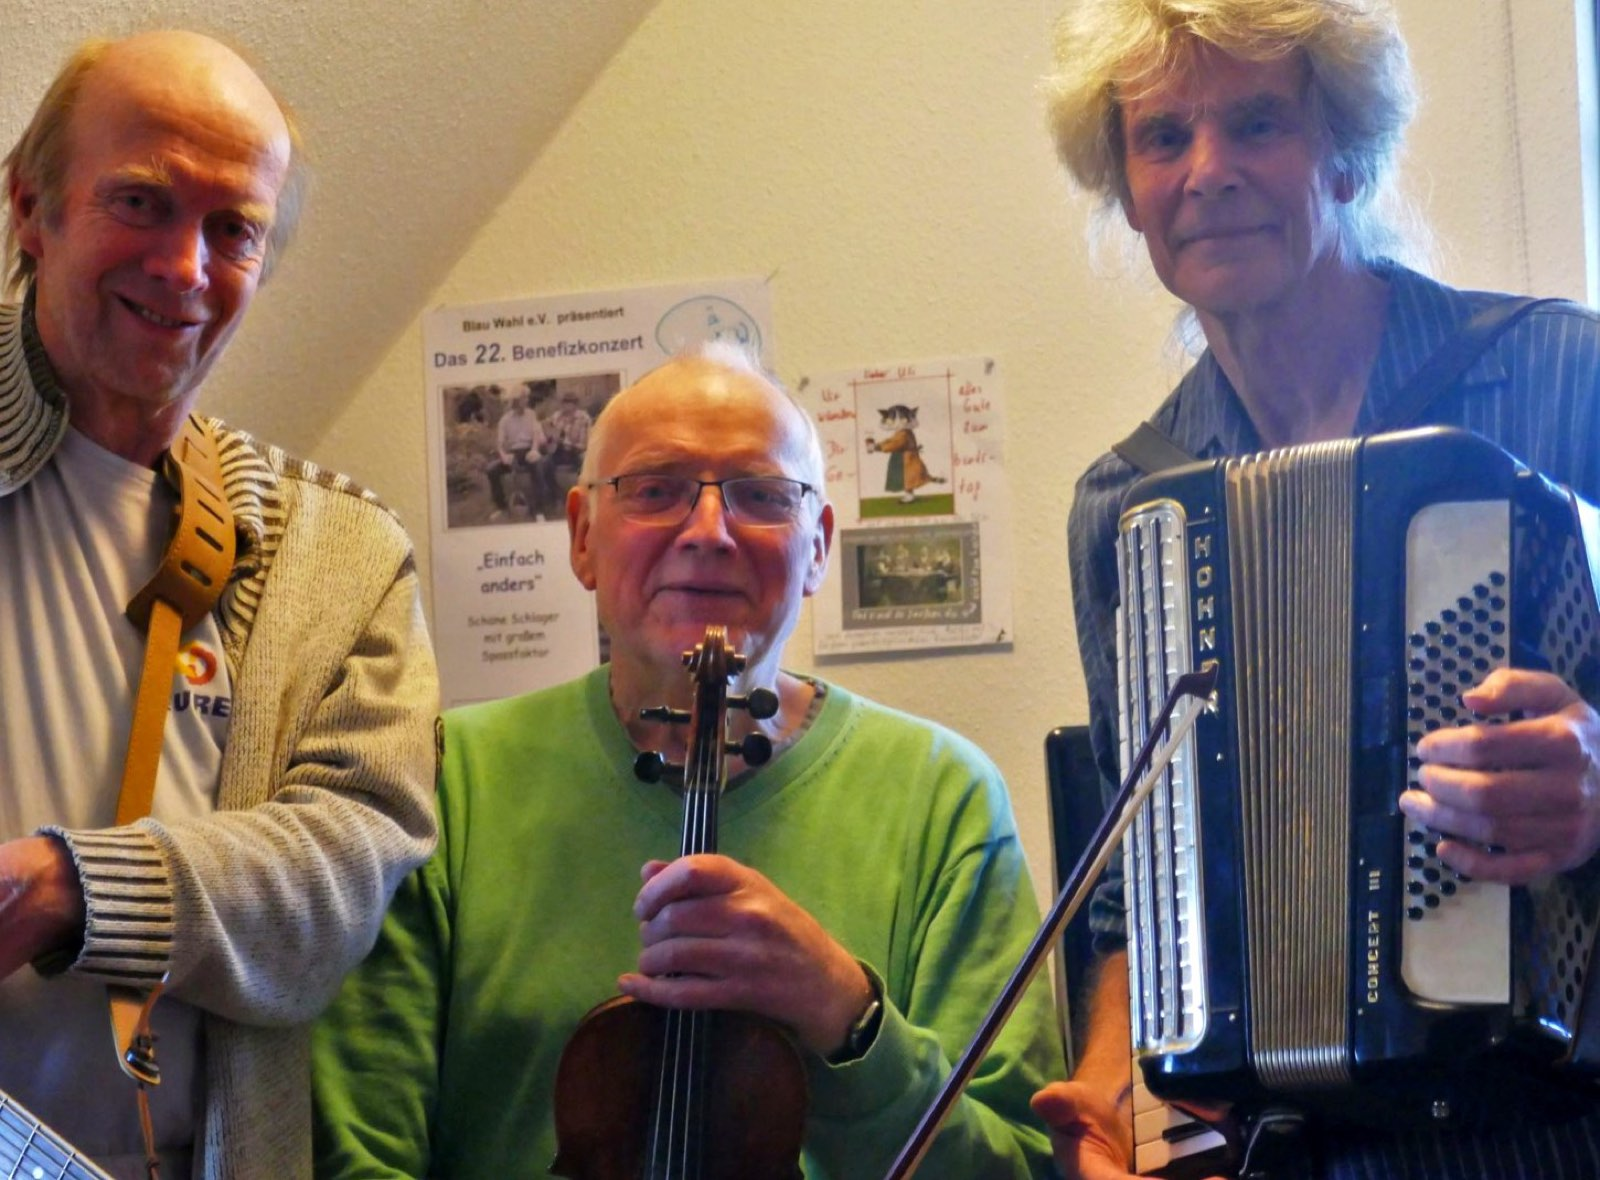
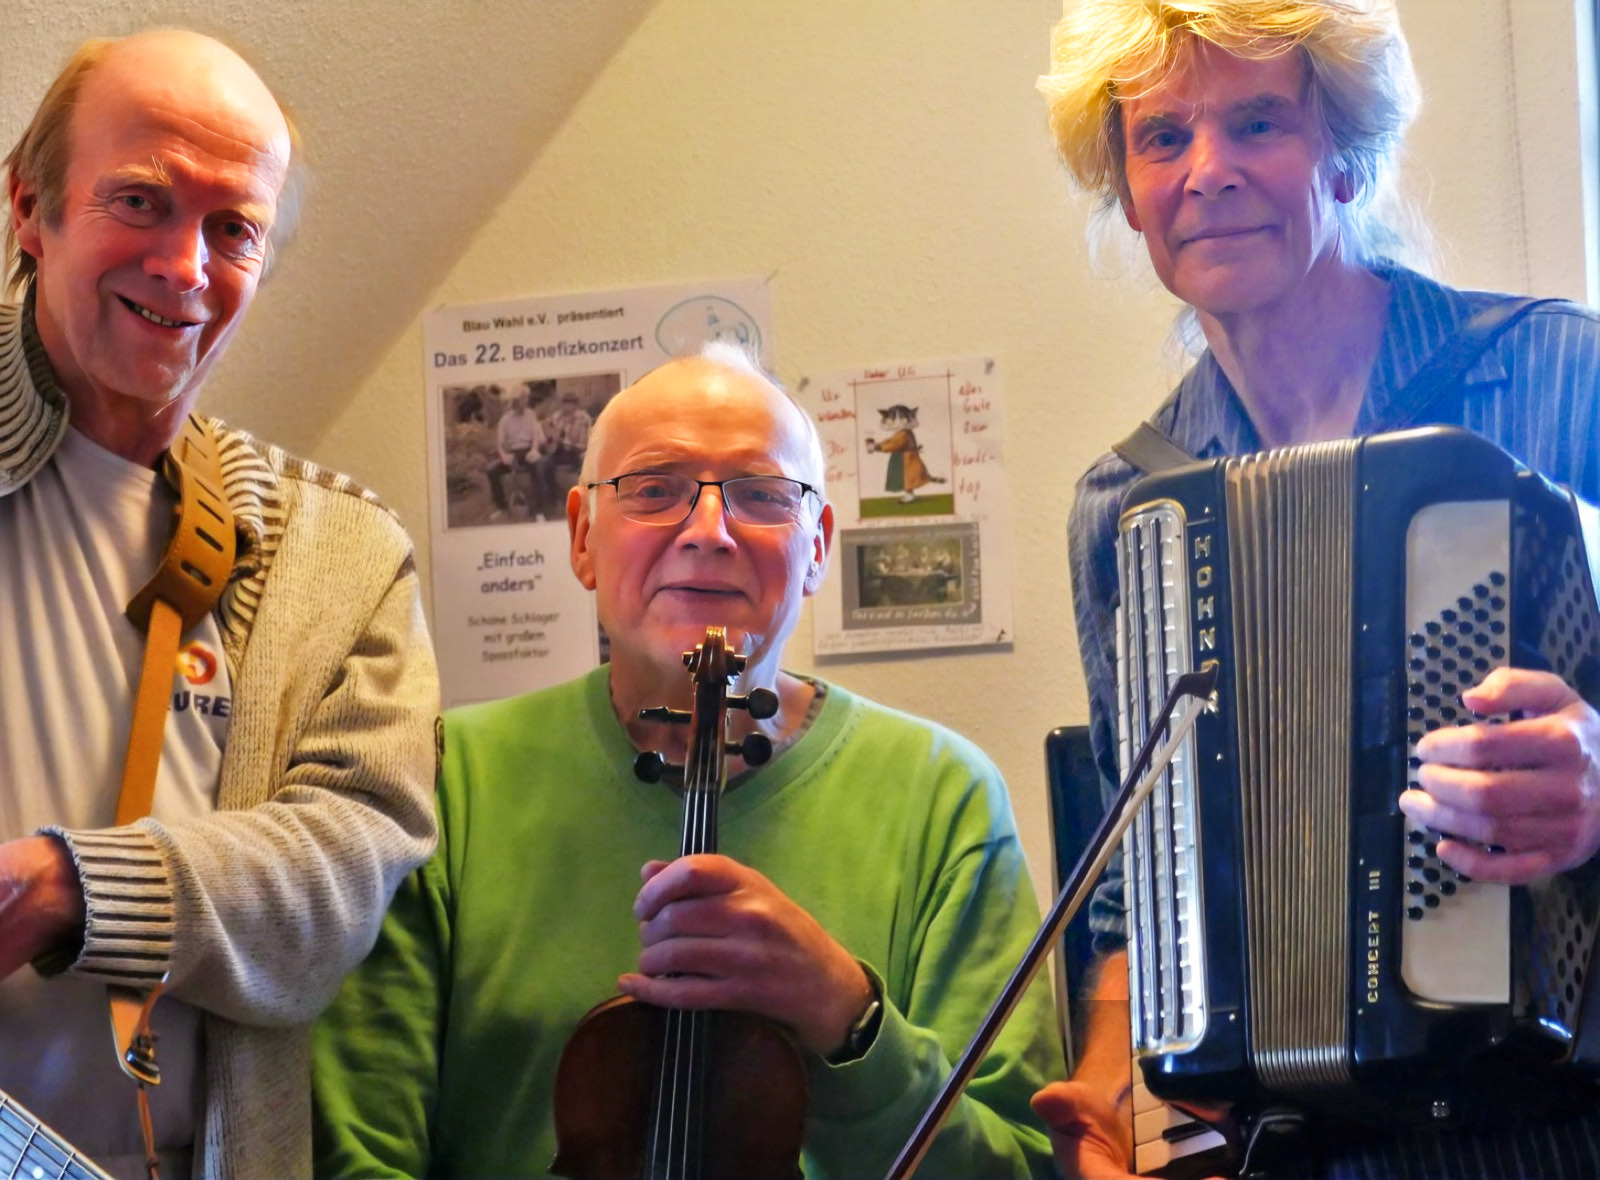
Ulis Endfassung des Oberschliesser-Fotos
Gleicher Schnitt, aber sauber abgestimmter Weissabgleich: die Wand ist
neutral statt gelbstichig, das Plakat im Hintergrund bleibt lesbar.
Fuer das Web auf 366 KB gerechnet, Vorschaubild neu erzeugt.
Original als D-Uli-Endfassung-original.jpg bei den Varianten.

Claude-Session: https://claude.ai/code/session_014QFZ63DHSQGqZuoW9yPC8P

diff --git a/fotos.html b/fotos.html
@@ -46,7 +46,7 @@
       <figure class="tack"><img src="bilder/manni-kehr-klein.jpg?v=1787141324" data-gross="bilder/manni-kehr.jpg?v=1787141324" alt="Manni Kehr mit Mandola im Grünen" loading="lazy"><figcaption>Manni Kehr</figcaption></figure>
       <figure class="tack"><img src="bilder/manni-solo-klein.jpg?v=1787760422" data-gross="bilder/manni-solo.jpg?v=1787760422" alt="Manni Kehr singt mit der Mandola am Mikrofon auf der Bühne" loading="lazy"><figcaption>Manni Kehr am Mikrofon</figcaption></figure>
       <figure class="tack"><img src="bilder/manni-mittelalter-klein.jpg?v=1787760422" data-gross="bilder/manni-mittelalter.jpg?v=1787760422" alt="Manni Kehr im mittelalterlichen Gewand an der Drehleier, neben ihm eine Ritterrüstung" loading="lazy"><figcaption>An der Drehleier</figcaption></figure>
-      <figure class="tack"><img src="bilder/oberschliesser-klein.jpg?v=1788200029" data-gross="bilder/oberschliesser.jpg?v=1788200029" alt="Drei Musiker mit Gitarre, Geige und Akkordeon nebeneinander, rechts Uli Preuss" loading="lazy"><figcaption>Die Arrested Amtsbrüder &amp; der Oberschließer</figcaption></figure>
+      <figure class="tack"><img src="bilder/oberschliesser-klein.jpg?v=1788200584" data-gross="bilder/oberschliesser.jpg?v=1788200584" alt="Drei Musiker mit Gitarre, Geige und Akkordeon nebeneinander, rechts Uli Preuss" loading="lazy"><figcaption>Die Arrested Amtsbrüder &amp; der Oberschließer</figcaption></figure>
       <figure class="tack"><img src="bilder/christina-wolf-klein.jpg?v=1788199203" data-gross="bilder/christina-wolf.jpg?v=1788199219" alt="Christina Wolf sitzt lachend vor einer Backsteinwand" loading="lazy"><figcaption>Christina Wolf, die Wölfin</figcaption></figure>
       <figure class="tack"><img src="bilder/anne-heinz-klein.jpg?v=1788199203" data-gross="bilder/anne-heinz.jpg?v=1788199203" alt="Anne Heinz tanzt im roten Kleid in einer alten Scheune" loading="lazy"><figcaption>Anne Heinz</figcaption></figure>
     </div>

diff --git a/akteure.html b/akteure.html
@@ -80,7 +80,7 @@
       <p>Rainer Wölk starb im Februar 2023. Manni Kehr kam 2022 zunächst als „Oberschließer“ dazu und ist inzwischen zum Amtsbruder aufgestiegen. Als „Ungeküsster Frosch“ bespielte er schon in den 80er Jahren den Amtsschimmel.</p>
     </div>
     <figure class="tack">
-      <img src="bilder/oberschliesser.jpg?v=1788200029" alt="Drei Musiker mit Gitarre, Geige und Akkordeon nebeneinander, rechts Uli Preuss" loading="lazy">
+      <img src="bilder/oberschliesser.jpg?v=1788200584" alt="Drei Musiker mit Gitarre, Geige und Akkordeon nebeneinander, rechts Uli Preuss" loading="lazy">
       <figcaption>Die Arrested Amtsbrüder &amp; der Oberschließer</figcaption>
     </figure>
   </div>
